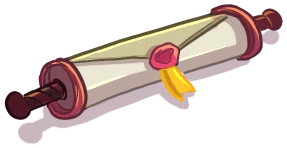
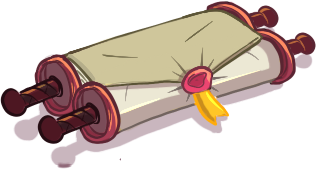
feat: le Volumen du camp prend sa nouvelle illustration

diff --git a/components/CooldownCamp.vue b/components/CooldownCamp.vue
@@ -186,7 +186,7 @@ const layers = computed((): { depth: string, box: string, origin: string, items:
     items: [
       // Le parchemin n'est posé qu'une fois une question vue : avant, le
       // Volumen n'aurait rien à relire.
-      ...(props.volumen ? [{ src: '/images/cooldown-scroll.webp', place: 'left-[32.55%] top-[85.94%] w-[14.95%]', title: 'Volumen', click: { to: '/volumen' } }] : []),
+      ...(props.volumen ? [{ src: '/images/cooldown-scroll.webp', place: 'left-[31.72%] top-[84%] w-[16.46%]', title: 'Volumen', click: { to: '/volumen' } }] : []),
       // Le grimoire en dernier : il chevauche le parchemin et le sac, et passe
       // devant eux, comme sur l'illustration.
       { src: '/images/cooldown-backpack.webp', place: 'left-[60.42%] top-[78.7%] w-[21.35%]', title: 'Inventaire', click: { to: '/inventaire' } },
